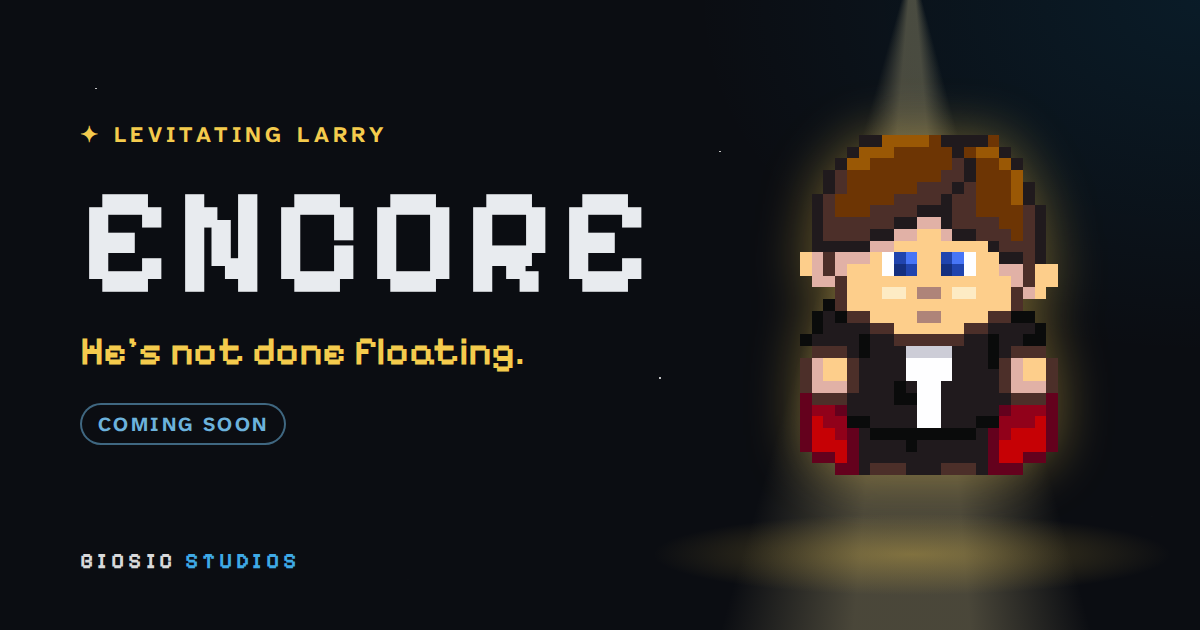
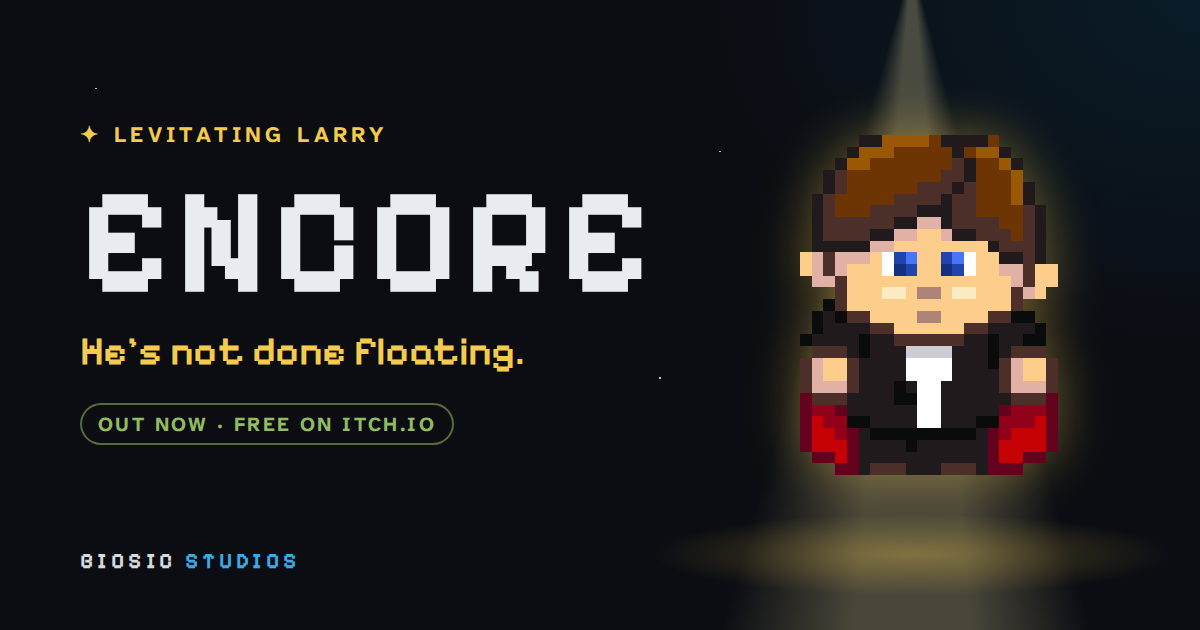
Levitating Larry Encore is out now: itch.io link and trailer
- Encore page: "Out now · free" hero with Play free on itch.io
  (biosicstudios.itch.io/levitating-larry-encore), and the trailer
  (youtu.be/x3s6SclyOUY) as click-to-play YouTube with our own poster.
  The "curtain's still down" teaser is gone. VideoGame JSON-LD gets the
  free offer, sameAs and trailer.
- New share card ("Out now · Free on itch.io") and trailer poster.
- Header dropdown, home card, All games row, Larry page (button,
  timeline entry 04), Hungerhold strip and press kit: out now, free,
  with the itch.io link.

Claude-Session: https://claude.ai/code/session_01Kitd6UTHqSzkGspUH5yvmR

Changed region(s): [[0.0617, 0.6333, 0.37, 0.7238]]

diff --git a/site/levitating-larry/encore/index.html b/site/levitating-larry/encore/index.html
@@ -4,14 +4,14 @@
 <meta charset="utf-8">
 <meta name="viewport" content="width=device-width, initial-scale=1">
 <script>document.documentElement.classList.add('js')</script>
-<title>Levitating Larry Encore · Coming soon · Biosic Studios</title>
-<meta name="description" content="Levitating Larry Encore: Larry is coming back for an encore. A new Levitating Larry game from Biosic Studios, coming soon. Follow along to see it first.">
+<title>Levitating Larry Encore · Out now, free · Biosic Studios</title>
+<meta name="description" content="Levitating Larry Encore is out now: a brand-new Levitating Larry game from Biosic Studios, free to play on itch.io. Watch the trailer.">
 <link rel="canonical" href="https://biosicstudios.com/levitating-larry/encore/">
 <meta name="theme-color" content="#0e1116">
 <meta property="og:type" content="website">
 <meta property="og:site_name" content="Biosic Studios">
 <meta property="og:title" content="Levitating Larry Encore">
-<meta property="og:description" content="He's not done floating. Coming soon.">
+<meta property="og:description" content="He's not done floating. Levitating Larry Encore is out now, free on itch.io.">
 <meta property="og:image" content="https://biosicstudios.com/levitating-larry/img/encore-og.png">
 <meta property="og:url" content="https://biosicstudios.com/levitating-larry/encore/">
 <meta name="twitter:card" content="summary_large_image">
@@ -24,7 +24,7 @@
 <link rel="stylesheet" href="/assets/site.css">
 <script src="/assets/site.js" defer></script>
 <script type="speculationrules">{"prerender":[{"where":{"href_matches":"/*"},"eagerness":"moderate"}]}</script>
-<script type="application/ld+json">{"@context":"https://schema.org","@type":"VideoGame","name":"Levitating Larry Encore","url":"https://biosicstudios.com/levitating-larry/encore/","image":"https://biosicstudios.com/levitating-larry/img/encore-og.png","description":"Larry is coming back for an encore. A new Levitating Larry game from Biosic Studios, coming soon.","isPartOf":{"@type":"VideoGameSeries","name":"Levitating Larry","url":"https://biosicstudios.com/levitating-larry/"},"author":{"@type":"Organization","name":"Biosic Studios","url":"https://biosicstudios.com/"}}</script>
+<script type="application/ld+json">{"@context":"https://schema.org","@type":"VideoGame","name":"Levitating Larry Encore","url":"https://biosicstudios.com/levitating-larry/encore/","image":"https://biosicstudios.com/levitating-larry/img/encore-og.png","description":"Levitating Larry Encore: a brand-new Levitating Larry game from Biosic Studios. He's not done floating.","isPartOf":{"@type":"VideoGameSeries","name":"Levitating Larry","url":"https://biosicstudios.com/levitating-larry/"},"author":{"@type":"Organization","name":"Biosic Studios","url":"https://biosicstudios.com/"},"sameAs":["https://biosicstudios.itch.io/levitating-larry-encore"],"offers":{"@type":"Offer","price":"0","priceCurrency":"USD","url":"https://biosicstudios.itch.io/levitating-larry-encore"},"trailer":{"@type":"VideoObject","name":"Levitating Larry Encore trailer","description":"The trailer for Levitating Larry Encore, out now and free on itch.io.","thumbnailUrl":"https://biosicstudios.com/levitating-larry/img/encore-trailer-poster.webp","uploadDate":"2026-10-05","embedUrl":"https://www.youtube.com/embed/x3s6SclyOUY","url":"https://youtu.be/x3s6SclyOUY"}}</script>
 </head>
 <body class="theme-sun">
 <a class="skip" href="#main">Skip to content</a>
@@ -41,7 +41,7 @@
               <summary><span class="dot sun" aria-hidden="true"></span><span class="hide-sm">Levitating </span>Larry</summary>
               <ul class="menu-list">
                 <li><a href="/levitating-larry/"><span class="menu-art"><img src="/levitating-larry/img/larry.png" alt="" width="22" height="29" loading="lazy"></span><span><b>Levitating Larry</b><small>The original. Meet Larry.</small></span></a></li>
-                <li><a href="/levitating-larry/encore/" aria-current="page"><span class="menu-art encore"><img src="/levitating-larry/img/larry.png" alt="" width="22" height="29" loading="lazy"></span><span><b>Levitating Larry Encore</b><small>Coming soon</small></span></a></li>
+                <li><a href="/levitating-larry/encore/" aria-current="page"><span class="menu-art encore"><img src="/levitating-larry/img/larry.png" alt="" width="22" height="29" loading="lazy"></span><span><b>Levitating Larry Encore</b><small>Out now · play free</small></span></a></li>
               </ul>
             </details>
           </li>
@@ -57,14 +57,15 @@
     <div class="wrap split">
       <div class="stack-lg">
         <div class="stack">
-          <div class="badges"><span class="badge soon lg">Coming soon</span></div>
+          <div class="badges"><span class="badge live lg">Out now · free</span></div>
           <span class="eyebrow">Levitating Larry</span>
           <h1>ENCORE</h1>
           <p class="tagline">He's not done floating.</p>
-          <p class="lede">The suit is pressed. The cape is back. Larry is coming back for an encore, and he still has no intention of touching the ground.</p>
+          <p class="lede">The suit is pressed. The cape is back. Larry is back for an encore, and he still has no intention of touching the ground. Free to play on itch.io.</p>
         </div>
         <div class="btns">
-          <a class="btn sun" href="https://biosicstudios.itch.io/" rel="noopener">Follow on itch.io</a>
+          <a class="btn sun" href="https://biosicstudios.itch.io/levitating-larry-encore" rel="noopener">Play free on itch.io</a>
+          <a class="btn ghost" href="#trailer">Watch the trailer</a>
           <a class="btn ghost" href="/levitating-larry/">Meet the original</a>
         </div>
       </div>
@@ -76,22 +77,20 @@
     </div>
   </section>
 
-  <section class="band" aria-labelledby="soon-h">
+  <section class="band" id="trailer" aria-labelledby="trailer-h">
     <div class="wrap stack-lg">
-      <div class="stack">
-        <span class="eyebrow">What we can say so far</span>
-        <h2 id="soon-h">The curtain's still down</h2>
+      <div class="section-head">
+        <div class="stack">
+          <span class="eyebrow">Out now</span>
+          <h2 id="trailer-h">Watch the trailer</h2>
+        </div>
+        <a href="https://biosicstudios.itch.io/levitating-larry-encore" rel="noopener">Play it free →</a>
       </div>
-      <div class="grid3">
-        <div class="card"><h3>It's Larry</h3><p class="muted">Same Larry: brown hair, sharp suit, red cape, zero respect for gravity.</p></div>
-        <div class="card"><h3>It's new</h3><p class="muted">A brand-new Levitating Larry game from Biosic Studios.</p></div>
-        <div class="card"><h3>It's not ready</h3><p class="muted">Not ready to be seen yet. We'll show more here, and on our channels, as soon as it is.</p></div>
-      </div>
-      <div class="btns">
-        <a class="btn ghost sm" href="https://biosicstudios.itch.io/" rel="noopener">itch.io</a>
-        <a class="btn ghost sm" href="https://www.youtube.com/channel/UCl_Kg3ampLr_eGNiyWTA5pA" rel="noopener">YouTube</a>
-        <a class="btn ghost sm" href="https://twitter.com/biosicstudios" rel="noopener">X / Twitter</a>
-      </div>
+      <a class="video trailer" href="https://www.youtube.com/watch?v=x3s6SclyOUY" data-yt="x3s6SclyOUY" rel="noopener" aria-label="Play the Levitating Larry Encore trailer">
+        <img src="/levitating-larry/img/encore-trailer-poster.webp" srcset="/levitating-larry/img/encore-trailer-poster-640.webp 640w, /levitating-larry/img/encore-trailer-poster.webp 1280w" sizes="(max-width: 1160px) 92vw, 1096px" width="1280" height="720" loading="lazy" decoding="async" alt="Levitating Larry Encore trailer: Larry floating in a stage spotlight">
+        <span class="play" aria-hidden="true"></span>
+      </a>
+      <p class="muted small"><a href="https://youtu.be/x3s6SclyOUY" rel="noopener">Watch on YouTube</a> · <a href="https://biosicstudios.itch.io/levitating-larry-encore" rel="noopener">Play on itch.io</a></p>
     </div>
   </section>
 
@@ -99,7 +98,7 @@
     <div class="wrap stack-lg">
       <div class="section-head">
         <div class="stack">
-          <span class="eyebrow">While you wait</span>
+          <span class="eyebrow">More from Biosic</span>
           <h2 id="more-h">Keep playing</h2>
         </div>
         <a href="/games/">All games →</a>

diff --git a/site/levitating-larry/index.html b/site/levitating-larry/index.html
@@ -5,7 +5,7 @@
 <meta name="viewport" content="width=device-width, initial-scale=1">
 <script>document.documentElement.classList.add('js')</script>
 <title>Meet Levitating Larry · Biosic Studios</title>
-<meta name="description" content="Meet Levitating Larry: a man named Larry who levitates. Sharp suit, red cape, zero respect for gravity. A Biosic Studios original, and Levitating Larry Encore is coming soon.">
+<meta name="description" content="Meet Levitating Larry: a man named Larry who levitates. Sharp suit, red cape, zero respect for gravity. A Biosic Studios original, and Levitating Larry Encore is out now, free on itch.io.">
 <link rel="canonical" href="https://biosicstudios.com/levitating-larry/">
 <meta name="theme-color" content="#0e1116">
 <meta property="og:type" content="website">
@@ -41,7 +41,7 @@
               <summary><span class="dot sun" aria-hidden="true"></span><span class="hide-sm">Levitating </span>Larry</summary>
               <ul class="menu-list">
                 <li><a href="/levitating-larry/" aria-current="page"><span class="menu-art"><img src="/levitating-larry/img/larry.png" alt="" width="22" height="29" loading="lazy"></span><span><b>Levitating Larry</b><small>The original. Meet Larry.</small></span></a></li>
-                <li><a href="/levitating-larry/encore/"><span class="menu-art encore"><img src="/levitating-larry/img/larry.png" alt="" width="22" height="29" loading="lazy"></span><span><b>Levitating Larry Encore</b><small>Coming soon</small></span></a></li>
+                <li><a href="/levitating-larry/encore/"><span class="menu-art encore"><img src="/levitating-larry/img/larry.png" alt="" width="22" height="29" loading="lazy"></span><span><b>Levitating Larry Encore</b><small>Out now · play free</small></span></a></li>
               </ul>
             </details>
           </li>
@@ -60,10 +60,10 @@
           <span class="eyebrow">The original · a Biosic character</span>
           <h1>LEVITATING <span style="color: var(--sun);">LARRY</span></h1>
           <p class="lede">A man named Larry. He levitates. Brown hair, sharp suit, red cape, and absolutely no interest in coming back down.</p>
-          <p class="muted">He's not done floating. <a class="trio" href="/levitating-larry/encore/" aria-label="Levitating Larry Encore, coming soon">✦✦✦</a></p>
+          <p class="muted">He's not done floating. <a class="trio" href="/levitating-larry/encore/" aria-label="Levitating Larry Encore, out now">✦✦✦</a></p>
         </div>
         <div class="btns">
-          <a class="btn sun" href="/levitating-larry/encore/">Encore: coming soon</a>
+          <a class="btn sun" href="/levitating-larry/encore/">Encore: out now</a>
           <a class="btn ghost" href="/#trailer">Studio trailer</a>
         </div>
       </div>
@@ -97,10 +97,10 @@
           <h3>Levitating Larry Returns</h3>
           <p class="muted">A retro pixel adventure through an endless, mysterious dungeon, and the look Larry wears today.</p>
         </article>
-        <article class="card next">
-          <span class="year" aria-hidden="true">✦</span>
+        <article class="card">
+          <span class="year" aria-hidden="true">04</span>
           <h3>Levitating Larry Encore</h3>
-          <p class="muted">Coming soon. He said he wasn't done floating. <a href="/levitating-larry/encore/">Take a peek →</a></p>
+          <p class="muted">Out now, free. He said he wasn't done floating. <a href="https://biosicstudios.itch.io/levitating-larry-encore" rel="noopener">Play on itch.io →</a></p>
         </article>
       </div>
     </div>

diff --git a/site/games/index.html b/site/games/index.html
@@ -5,7 +5,7 @@
 <meta name="viewport" content="width=device-width, initial-scale=1">
 <script>document.documentElement.classList.add('js')</script>
 <title>All games · Biosic Studios</title>
-<meta name="description" content="Every Biosic Studios game in one place: Hungerhold (v3.0 out now), Levitating Larry, Levitating Larry Encore (coming soon), 420 Tycoon and 420 Clicks Later.">
+<meta name="description" content="Every Biosic Studios game in one place: Hungerhold (v3.0 out now), Levitating Larry, Levitating Larry Encore (out now), 420 Tycoon and 420 Clicks Later.">
 <link rel="canonical" href="https://biosicstudios.com/games/">
 <meta name="theme-color" content="#0e1116">
 <meta property="og:type" content="website">
@@ -42,7 +42,7 @@
               <summary><span class="dot sun" aria-hidden="true"></span><span class="hide-sm">Levitating </span>Larry</summary>
               <ul class="menu-list">
                 <li><a href="/levitating-larry/"><span class="menu-art"><img src="/levitating-larry/img/larry.png" alt="" width="22" height="29" loading="lazy"></span><span><b>Levitating Larry</b><small>The original. Meet Larry.</small></span></a></li>
-                <li><a href="/levitating-larry/encore/"><span class="menu-art encore"><img src="/levitating-larry/img/larry.png" alt="" width="22" height="29" loading="lazy"></span><span><b>Levitating Larry Encore</b><small>Coming soon</small></span></a></li>
+                <li><a href="/levitating-larry/encore/"><span class="menu-art encore"><img src="/levitating-larry/img/larry.png" alt="" width="22" height="29" loading="lazy"></span><span><b>Levitating Larry Encore</b><small>Out now · play free</small></span></a></li>
               </ul>
             </details>
           </li>
@@ -114,11 +114,15 @@
         <img class="sprite levitate" src="/levitating-larry/img/larry.png" width="22" height="29" loading="lazy" decoding="async" alt="">
       </a>
       <div class="stack">
-        <div class="badges"><span class="badge soon">Coming soon</span></div>
+        <div class="badges"><span class="badge live">Out now</span><span class="badge">Free</span></div>
         <h2 id="encore-h">Levitating Larry Encore</h2>
         <p>He's not done floating. A brand-new Levitating Larry game, with the same Larry: sharp suit, red cape, zero respect for gravity.</p>
-        <p class="muted">We'll show more as soon as it's ready to be seen.</p>
-        <div class="btns"><a class="btn primary" href="/levitating-larry/encore/">Take a peek</a><a class="btn ghost" href="https://biosicstudios.itch.io/" rel="noopener">Follow on itch.io</a></div>
+        <dl class="facts">
+          <dt>Play</dt><dd>On itch.io</dd>
+          <dt>Price</dt><dd>Free</dd>
+          <dt>Trailer</dt><dd><a href="https://youtu.be/x3s6SclyOUY" rel="noopener">Watch on YouTube</a></dd>
+        </dl>
+        <div class="btns"><a class="btn primary" href="https://biosicstudios.itch.io/levitating-larry-encore" rel="noopener">Play free</a><a class="btn ghost" href="/levitating-larry/encore/">About Encore</a></div>
       </div>
     </div>
   </section>

diff --git a/site/index.html b/site/index.html
@@ -5,7 +5,7 @@
 <meta name="viewport" content="width=device-width, initial-scale=1">
 <script>document.documentElement.classList.add('js')</script>
 <title>Biosic Studios · Hungerhold v3.0 out now</title>
-<meta name="description" content="Biosic Studios is an independent game studio. Hungerhold v3.0, hand-me-down survival where every life teaches the next, is out now, free in your browser. Plus Levitating Larry, Levitating Larry Encore (coming soon), 420 Tycoon and 420 Clicks Later.">
+<meta name="description" content="Biosic Studios is an independent game studio. Hungerhold v3.0, hand-me-down survival where every life teaches the next, is out now, free in your browser. Plus Levitating Larry, Levitating Larry Encore (out now, free), 420 Tycoon and 420 Clicks Later.">
 <link rel="canonical" href="https://biosicstudios.com/">
 <meta name="theme-color" content="#0e1116">
 <meta property="og:type" content="website">
@@ -43,7 +43,7 @@
               <summary><span class="dot sun" aria-hidden="true"></span><span class="hide-sm">Levitating </span>Larry</summary>
               <ul class="menu-list">
                 <li><a href="/levitating-larry/"><span class="menu-art"><img src="/levitating-larry/img/larry.png" alt="" width="22" height="29" loading="lazy"></span><span><b>Levitating Larry</b><small>The original. Meet Larry.</small></span></a></li>
-                <li><a href="/levitating-larry/encore/"><span class="menu-art encore"><img src="/levitating-larry/img/larry.png" alt="" width="22" height="29" loading="lazy"></span><span><b>Levitating Larry Encore</b><small>Coming soon</small></span></a></li>
+                <li><a href="/levitating-larry/encore/"><span class="menu-art encore"><img src="/levitating-larry/img/larry.png" alt="" width="22" height="29" loading="lazy"></span><span><b>Levitating Larry Encore</b><small>Out now · play free</small></span></a></li>
               </ul>
             </details>
           </li>
@@ -135,10 +135,10 @@
             </div>
           </a>
           <div class="body">
-            <div class="badges"><span class="badge soon">Coming soon</span></div>
+            <div class="badges"><span class="badge live">Out now</span><span class="badge">Free</span></div>
             <h3>Levitating Larry Encore</h3>
-            <p class="muted">He's not done floating. Larry is coming back for an encore.</p>
-            <div class="links"><a href="/levitating-larry/encore/">Take a peek →</a></div>
+            <p class="muted">He's not done floating. Larry is back for an encore, free on itch.io.</p>
+            <div class="links"><a href="https://biosicstudios.itch.io/levitating-larry-encore" rel="noopener">Play on itch.io →</a><a href="/levitating-larry/encore/#trailer">Trailer</a></div>
           </div>
         </article>
 

diff --git a/site/press/index.html b/site/press/index.html
@@ -40,7 +40,7 @@
               <summary><span class="dot sun" aria-hidden="true"></span><span class="hide-sm">Levitating </span>Larry</summary>
               <ul class="menu-list">
                 <li><a href="/levitating-larry/"><span class="menu-art"><img src="/levitating-larry/img/larry.png" alt="" width="22" height="29" loading="lazy"></span><span><b>Levitating Larry</b><small>The original. Meet Larry.</small></span></a></li>
-                <li><a href="/levitating-larry/encore/"><span class="menu-art encore"><img src="/levitating-larry/img/larry.png" alt="" width="22" height="29" loading="lazy"></span><span><b>Levitating Larry Encore</b><small>Coming soon</small></span></a></li>
+                <li><a href="/levitating-larry/encore/"><span class="menu-art encore"><img src="/levitating-larry/img/larry.png" alt="" width="22" height="29" loading="lazy"></span><span><b>Levitating Larry Encore</b><small>Out now · play free</small></span></a></li>
               </ul>
             </details>
           </li>
@@ -74,7 +74,7 @@
         <dt>Games</dt><dd>
           <ul class="list">
             <li><b><a href="/hungerhold/">Hungerhold</a></b>: "Every life teaches the next." A kinlike: hand-me-down survival. One short life, one family that remembers. Version 3.0 is out now, pay what you want, <a href="https://biosicstudios.itch.io/hungerhold" rel="noopener">in the browser on itch.io</a> or as a download for Windows, Mac and Linux.</li>
-            <li><b><a href="/levitating-larry/">Levitating Larry</a></b>: a Biosic original character. A man named Larry who levitates. <a href="/levitating-larry/encore/">Levitating Larry Encore</a> is coming soon.</li>
+            <li><b><a href="/levitating-larry/">Levitating Larry</a></b>: a Biosic original character. A man named Larry who levitates. <a href="/levitating-larry/encore/">Levitating Larry Encore</a> is out now, <a href="https://biosicstudios.itch.io/levitating-larry-encore" rel="noopener">free on itch.io</a> (<a href="https://youtu.be/x3s6SclyOUY" rel="noopener">trailer</a>).</li>
             <li><b><a href="https://biosicstudios.itch.io/420-tycoon" rel="noopener">420 Tycoon · Flies High Edition</a></b>: stoner-themed browser clicker tycoon, free.</li>
             <li><b><a href="https://biosicstudios.itch.io/420-clicks-later" rel="noopener">420 Clicks Later</a></b>: stoner-themed browser clicker, free.</li>
           </ul>

diff --git a/site/hungerhold/index.html b/site/hungerhold/index.html
@@ -42,7 +42,7 @@
               <summary><span class="dot sun" aria-hidden="true"></span><span class="hide-sm">Levitating </span>Larry</summary>
               <ul class="menu-list">
                 <li><a href="/levitating-larry/"><span class="menu-art"><img src="/levitating-larry/img/larry.png" alt="" width="22" height="29" loading="lazy"></span><span><b>Levitating Larry</b><small>The original. Meet Larry.</small></span></a></li>
-                <li><a href="/levitating-larry/encore/"><span class="menu-art encore"><img src="/levitating-larry/img/larry.png" alt="" width="22" height="29" loading="lazy"></span><span><b>Levitating Larry Encore</b><small>Coming soon</small></span></a></li>
+                <li><a href="/levitating-larry/encore/"><span class="menu-art encore"><img src="/levitating-larry/img/larry.png" alt="" width="22" height="29" loading="lazy"></span><span><b>Levitating Larry Encore</b><small>Out now · play free</small></span></a></li>
               </ul>
             </details>
           </li>
@@ -229,7 +229,7 @@
           </a>
           <a class="mini-game" href="/levitating-larry/encore/">
             <div class="frame space-frame spotlight"><img class="sprite" src="/levitating-larry/img/larry.png" width="22" height="29" loading="lazy" decoding="async" alt=""></div>
-            <div><b>Larry Encore</b><span>Coming soon</span></div>
+            <div><b>Larry Encore</b><span>Out now · play free</span></div>
           </a>
       </div>
     </div>

diff --git a/site/404.html b/site/404.html
@@ -32,7 +32,7 @@
               <summary><span class="dot sun" aria-hidden="true"></span><span class="hide-sm">Levitating </span>Larry</summary>
               <ul class="menu-list">
                 <li><a href="/levitating-larry/"><span class="menu-art"><img src="/levitating-larry/img/larry.png" alt="" width="22" height="29" loading="lazy"></span><span><b>Levitating Larry</b><small>The original. Meet Larry.</small></span></a></li>
-                <li><a href="/levitating-larry/encore/"><span class="menu-art encore"><img src="/levitating-larry/img/larry.png" alt="" width="22" height="29" loading="lazy"></span><span><b>Levitating Larry Encore</b><small>Coming soon</small></span></a></li>
+                <li><a href="/levitating-larry/encore/"><span class="menu-art encore"><img src="/levitating-larry/img/larry.png" alt="" width="22" height="29" loading="lazy"></span><span><b>Levitating Larry Encore</b><small>Out now · play free</small></span></a></li>
               </ul>
             </details>
           </li>

diff --git a/site/contact/index.html b/site/contact/index.html
@@ -40,7 +40,7 @@
               <summary><span class="dot sun" aria-hidden="true"></span><span class="hide-sm">Levitating </span>Larry</summary>
               <ul class="menu-list">
                 <li><a href="/levitating-larry/"><span class="menu-art"><img src="/levitating-larry/img/larry.png" alt="" width="22" height="29" loading="lazy"></span><span><b>Levitating Larry</b><small>The original. Meet Larry.</small></span></a></li>
-                <li><a href="/levitating-larry/encore/"><span class="menu-art encore"><img src="/levitating-larry/img/larry.png" alt="" width="22" height="29" loading="lazy"></span><span><b>Levitating Larry Encore</b><small>Coming soon</small></span></a></li>
+                <li><a href="/levitating-larry/encore/"><span class="menu-art encore"><img src="/levitating-larry/img/larry.png" alt="" width="22" height="29" loading="lazy"></span><span><b>Levitating Larry Encore</b><small>Out now · play free</small></span></a></li>
               </ul>
             </details>
           </li>

diff --git a/tools/game-page.template.html b/tools/game-page.template.html
@@ -48,7 +48,7 @@
               <summary><span class="dot sun" aria-hidden="true"></span><span class="hide-sm">Levitating </span>Larry</summary>
               <ul class="menu-list">
                 <li><a href="/levitating-larry/"><span class="menu-art"><img src="/levitating-larry/img/larry.png" alt="" width="22" height="29" loading="lazy"></span><span><b>Levitating Larry</b><small>The original. Meet Larry.</small></span></a></li>
-                <li><a href="/levitating-larry/encore/"><span class="menu-art encore"><img src="/levitating-larry/img/larry.png" alt="" width="22" height="29" loading="lazy"></span><span><b>Levitating Larry Encore</b><small>Coming soon</small></span></a></li>
+                <li><a href="/levitating-larry/encore/"><span class="menu-art encore"><img src="/levitating-larry/img/larry.png" alt="" width="22" height="29" loading="lazy"></span><span><b>Levitating Larry Encore</b><small>Out now · play free</small></span></a></li>
               </ul>
             </details>
           </li>

diff --git a/README.md b/README.md
@@ -52,7 +52,7 @@ A new **Levitating Larry** game also goes in the header's Larry dropdown (`<deta
 - **Levitating Larry:** `site/levitating-larry/img/larry.png` is a tiny 22×29 sprite. Show it with the `.sprite` class (inside a `.frame.space-frame.warm`) so it scales up pixel-sharp.
 - **Studio trailer:** `site/assets/video/` (MP4 + poster). It plays on the home page (`#trailer`, click to load) and is downloadable from the press kit.
 - **Hungerhold:** the lead line is "Every life teaches the next."; the genre is a kinlike (hand-me-down survival). Say "make", "know-how" and "life", never "craft", "recipe" or "a run", and no em or en dashes. Screenshots are real v3.0 captures in `site/hungerhold/img/`: full size (lossless) plus `-640` and `-960` (world shots are scaled from their 320×180 pixel grid, so they stay crisp). `og.jpg` is the share card. The v3.0 trailer plays from YouTube on `/hungerhold/#trailer` (our own poster, click to load); the MP4 and poster in `site/hungerhold/media/` are for the press kit. Its credits sit under the video. The playable build lives on itch.io, not here.
-- **Levitating Larry Encore:** `site/levitating-larry/encore/`, a coming-soon page. `encore-og.png` is its share card.
+- **Levitating Larry Encore:** `site/levitating-larry/encore/`. Out now, free on itch.io (https://biosicstudios.itch.io/levitating-larry-encore); the trailer plays from YouTube (`x3s6SclyOUY`) with our own poster (`img/encore-trailer-poster*.webp`). `encore-og.png` is its share card.
 
 ## Contact
 
